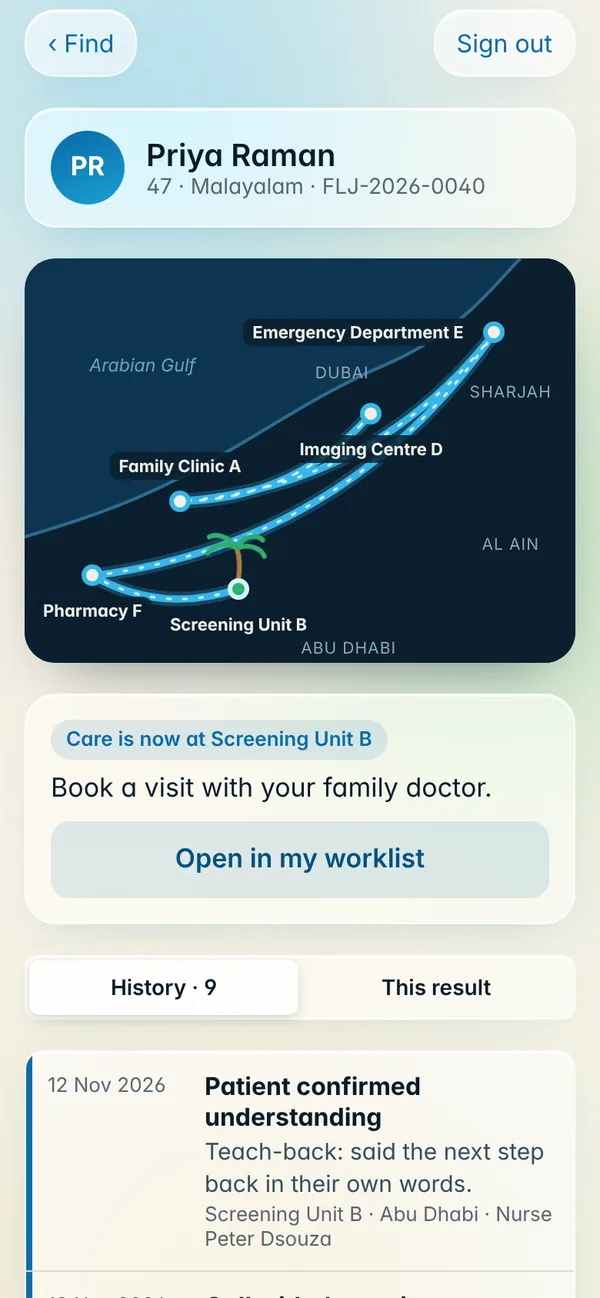
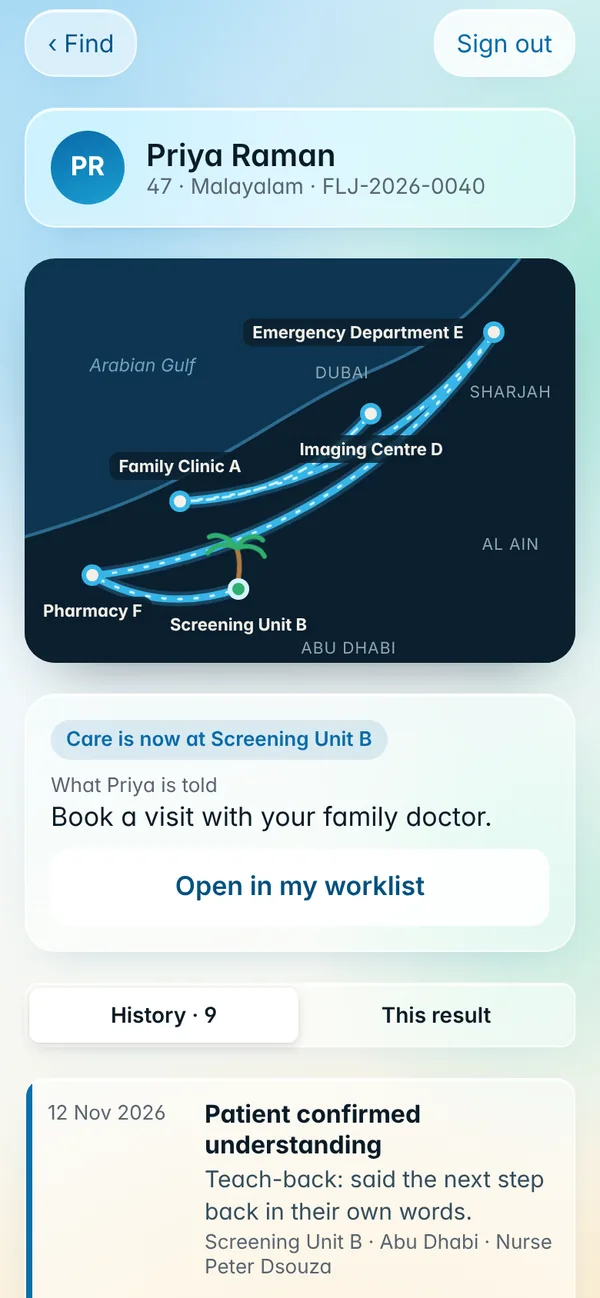
Glass everywhere: one frosted-glass theme over a drifting water backdrop for the app, the patient steps, the care team website, the story, home and jury; dark glass sidebar, stronger glass for sheets, solid colour kept for the main action and status; refreshed app screenshots
Claude-Session: https://claude.ai/code/session_01NvQmsxxT7Hv8ExqcSoyVTJ

diff --git a/design/glass-all.css b/design/glass-all.css
@@ -1,0 +1,71 @@
+/* FALAJ GLASS: one theme for every page. A luminous water backdrop that drifts slowly, and every surface
+   (cards, lists, bars, sheets, sidebars, fields, quiet buttons) made of frosted glass with a bright edge.
+   Solid colour is kept only for the main action and for status, so they stand out against the glass. */
+:root{
+  --glass:rgba(255,255,255,.52);--glass-hi:rgba(255,255,255,.8);--glass-strong:rgba(255,255,255,.86);
+  --glass-edge:rgba(255,255,255,.82);--glass-dark:rgba(8,42,66,.74);
+  --glass-sh:inset 0 1px 0 rgba(255,255,255,.95),inset 0 -1px 0 rgba(255,255,255,.25),0 14px 34px -20px rgba(12,74,118,.42);
+  --glass-blur:blur(26px) saturate(175%);
+}
+@media (prefers-color-scheme:dark){:root{
+  --glass:rgba(38,48,60,.46);--glass-hi:rgba(255,255,255,.13);--glass-strong:rgba(22,30,40,.84);
+  --glass-edge:rgba(255,255,255,.14);--glass-dark:rgba(4,14,22,.7);
+  --glass-sh:inset 0 1px 0 rgba(255,255,255,.14),0 14px 34px -20px rgba(0,0,0,.8);
+}}
+html{background:#e7f3fb}
+@media (prefers-color-scheme:dark){html{background:#040b12}}
+body[data-falaj-surface]{background:transparent !important;position:relative}
+body[data-falaj-surface]::before{content:"";position:fixed;inset:0;z-index:-2;pointer-events:none;
+  background:radial-gradient(62vmax 58vmax at 6% -6%,#9bd5f3 0,rgba(155,213,243,0) 62%),radial-gradient(54vmax 54vmax at 106% 22%,#a8e7db 0,rgba(168,231,219,0) 62%),radial-gradient(64vmax 50vmax at 58% 112%,#f9e2b4 0,rgba(249,226,180,0) 64%),linear-gradient(170deg,#e2f1fb 0%,#f0f8fb 46%,#fbf5e8 100%)}
+body[data-falaj-surface]::after{content:"";position:fixed;inset:-22vmax;z-index:-1;pointer-events:none;
+  background:radial-gradient(36vmax 36vmax at 30% 34%,rgba(112,196,240,.5) 0,rgba(112,196,240,0) 62%),radial-gradient(32vmax 32vmax at 72% 64%,rgba(140,222,200,.42) 0,rgba(140,222,200,0) 62%);
+  animation:gl-drift 26s ease-in-out infinite alternate}
+@keyframes gl-drift{to{transform:translate(9vmax,-7vmax) rotate(9deg)}}
+@media (prefers-color-scheme:dark){
+  body[data-falaj-surface]::before{background:radial-gradient(62vmax 58vmax at 6% -6%,#0d4468 0,rgba(13,68,104,0) 62%),radial-gradient(54vmax 54vmax at 106% 22%,#0c4a44 0,rgba(12,74,68,0) 62%),radial-gradient(64vmax 50vmax at 58% 112%,#3b2f17 0,rgba(59,47,23,0) 64%),linear-gradient(170deg,#04121c,#050b12 50%,#07110d)}
+  body[data-falaj-surface]::after{opacity:.5}
+}
+.bgfx{display:none !important}
+/* containers let the backdrop through */
+body[data-falaj-surface] :is(.stage,.phone,.inner,main,.wrap,.pane,.plist,.pdetail,.desk,.demo){background:transparent !important}
+body[data-falaj-surface] :is(.bar,.top){background:transparent !important;backdrop-filter:none;-webkit-backdrop-filter:none}
+/* every surface is glass */
+body[data-falaj-surface] :is(.card,.list,.ig,.hl,.flowbox,.agline,.summary,.falaj,.bars,.fcard,.vcard,.ringcard,.rule,.more,.appt,.msgcard,.wf-wrap,.hero2,.qa,.ptcard,.status2,.askcard,.hist,.dempty,.hlist,.chipb,.seg,.tbl,.scroll){
+  background:var(--glass) !important;backdrop-filter:var(--glass-blur);-webkit-backdrop-filter:var(--glass-blur);
+  border:1px solid var(--glass-edge) !important;box-shadow:var(--glass-sh) !important}
+body[data-falaj-surface] .card :is(.card,.list,.tbl,.scroll,.bars){background:var(--glass-hi) !important;backdrop-filter:none;-webkit-backdrop-filter:none;box-shadow:none !important}
+body[data-falaj-surface] .tbl :is(th,td,tr,thead){background:transparent !important}
+/* sheets and menus: stronger glass, so words stay easy to read */
+body[data-falaj-surface] .sheet{background:var(--glass-strong) !important;backdrop-filter:blur(34px) saturate(180%);-webkit-backdrop-filter:blur(34px) saturate(180%);border:1px solid var(--glass-edge) !important;box-shadow:var(--glass-sh) !important}
+body[data-falaj-surface] .scrim{background:rgba(8,42,66,.28)}
+/* bars that float */
+body[data-falaj-surface] .tabs{background:var(--glass) !important;backdrop-filter:var(--glass-blur);-webkit-backdrop-filter:var(--glass-blur);border:1px solid var(--glass-edge) !important;box-shadow:var(--glass-sh),0 18px 40px -18px rgba(10,50,80,.45) !important}
+body[data-falaj-surface] .side{background:var(--glass-dark) !important;backdrop-filter:blur(30px) saturate(170%);-webkit-backdrop-filter:blur(30px) saturate(170%);border-inline-end:1px solid rgba(255,255,255,.18)}
+body[data-falaj-surface] .site-nav{background:var(--glass);backdrop-filter:var(--glass-blur);-webkit-backdrop-filter:var(--glass-blur);border:1px solid var(--glass-edge);box-shadow:var(--glass-sh);border-radius:999px;padding:4px 16px}
+/* quiet buttons and fields are glass; the main action stays solid */
+body[data-falaj-surface] :is(.wide.ghost,.btn.ghost,.light,.btn-tint,.linkbtn,.chips button,.langs button,.textlink.glass){background:var(--glass-hi) !important;backdrop-filter:blur(14px);-webkit-backdrop-filter:blur(14px);border:1px solid var(--glass-edge) !important;box-shadow:inset 0 1px 0 rgba(255,255,255,.9)}
+body[data-falaj-surface] :is(.field input,.field textarea,.field select,.composer input){background:var(--glass-hi) !important;border:1px solid var(--glass-edge) !important}
+body[data-falaj-surface] .demo{border-bottom:1px solid var(--glass-edge)}
+/* the app pages take the same glass */
+body:is([data-falaj-page=app],[data-falaj-page=me]){--glass:rgba(255,255,255,.52);--glass-hi:rgba(255,255,255,.8);--g-bg:transparent}
+@media (prefers-color-scheme:dark){body:is([data-falaj-page=app],[data-falaj-page=me]){--glass:rgba(38,48,60,.46);--glass-hi:rgba(255,255,255,.13)}}
+body:is([data-falaj-page=app],[data-falaj-page=me]) .sheet{background:var(--glass-strong) !important}
+/* website details that assumed a flat page colour */
+body[data-falaj-surface=website]{--bg:transparent}
+.chan .n{box-shadow:0 0 0 5px rgba(255,255,255,.55)}
+.shafts i{background:rgba(255,255,255,.85)}
+.fh-mouth{fill:#fff}
+.fh-ground{fill:rgba(255,255,255,.42);stroke:rgba(255,255,255,.8);stroke-width:1}
+@media (prefers-color-scheme:dark){.fh-ground{fill:rgba(255,255,255,.07)}.fh-mouth{fill:#0a1a26}.chan .n{box-shadow:0 0 0 5px rgba(255,255,255,.08)}.shafts i{background:#0a1a26}}
+@media (prefers-reduced-motion:reduce){body[data-falaj-surface]::after{animation:none}}
+/* details */
+body[data-falaj-surface] .dempty{border-radius:28px;padding:36px 28px;margin:auto}
+body[data-falaj-surface] .side :is(small,.sdemo){color:#dbe7ef !important}
+.stp .tag.soft{color:var(--ink) !important}
+@media (prefers-color-scheme:light){body[data-falaj-surface]{--fill:var(--water-700)}}
+body[data-falaj-surface] :is(.card,.hl,.agline,.summary,.falaj,.flowbox,.ringcard,.rule,.more,.appt,.msgcard,.fcard,.vcard){border-radius:20px}
+.wf-key{color:var(--ink-2,#2c3e4c) !important}
+body[data-falaj-surface] .back{color:var(--water-700) !important}
+@media (prefers-color-scheme:dark){body[data-falaj-surface] .tabs{background:var(--glass-strong) !important}}
+@media (max-width:720px){body[data-falaj-surface] .site-nav{flex-wrap:nowrap;overflow-x:auto;gap:2px 14px;padding:2px 14px;scrollbar-width:none;max-width:100%}
+  body[data-falaj-surface] .site-nav a{white-space:nowrap;flex:none}}

diff --git a/sw.js b/sw.js
@@ -1,9 +1,9 @@
 // Falaj service worker: lets the app open offline and be installed.
 // Strategy: network first (so new versions show immediately), fall back to the saved copy when offline.
 // Bump VERSION on every release so old saved copies are cleared.
-const VERSION = 'jissr-v74';
+const VERSION = 'jissr-v75';
 const SHELL = [
-  '/design/tokens.css', '/design/system.css', '/', '/index.html', '/loop.html', '/team.html', '/me.html', '/jury.html', '/ios.css', '/verify.html', '/family.html', '/app.html', '/styles.css', '/theme.css', '/design/site.css', '/app-shell.css', '/media/app-today.webp', '/media/app-map.webp', '/manifest.webmanifest', '/core/rules.mjs', '/core/cases.mjs', '/core/data.mjs', '/core/store.mjs', '/core/templates.mjs', '/core/ui.mjs', '/core/fhir.mjs', '/core/programmes.mjs', '/core/pwa.mjs', '/core/art.mjs', '/core/qr.mjs', '/core/proof.mjs', '/core/family.mjs', '/core/passport.mjs', '/core/flow.mjs', '/core/agents.mjs', '/core/channel.mjs', '/core/workflow.mjs', '/core/history.mjs', '/core/assistant.mjs', '/core/steps.mjs', '/design/glass.css', '/icons/icon.svg', '/icons/icon-192.png', '/icons/icon-512.png', '/fonts/readex-pro-latin-400-normal.woff2', '/fonts/readex-pro-latin-500-normal.woff2', '/fonts/readex-pro-latin-600-normal.woff2', '/fonts/readex-pro-arabic-400-normal.woff2', '/fonts/readex-pro-arabic-500-normal.woff2', '/fonts/readex-pro-arabic-600-normal.woff2', '/fonts/inter-latin-400-normal.woff2', '/fonts/inter-latin-500-normal.woff2', '/fonts/inter-latin-600-normal.woff2', '/fonts/bricolage-grotesque-latin-600-normal.woff2', '/fonts/bricolage-grotesque-latin-700-normal.woff2', '/fonts/ibm-plex-sans-arabic-arabic-400-normal.woff2', '/fonts/ibm-plex-sans-arabic-arabic-500-normal.woff2', '/fonts/ibm-plex-sans-arabic-arabic-600-normal.woff2', '/fonts/ibm-plex-sans-arabic-arabic-700-normal.woff2',
+  '/design/tokens.css', '/design/system.css', '/', '/index.html', '/loop.html', '/team.html', '/me.html', '/jury.html', '/ios.css', '/verify.html', '/family.html', '/app.html', '/styles.css', '/theme.css', '/design/site.css', '/app-shell.css', '/media/app-today.webp', '/media/app-map.webp', '/manifest.webmanifest', '/core/rules.mjs', '/core/cases.mjs', '/core/data.mjs', '/core/store.mjs', '/core/templates.mjs', '/core/ui.mjs', '/core/fhir.mjs', '/core/programmes.mjs', '/core/pwa.mjs', '/core/art.mjs', '/core/qr.mjs', '/core/proof.mjs', '/core/family.mjs', '/core/passport.mjs', '/core/flow.mjs', '/core/agents.mjs', '/core/channel.mjs', '/core/workflow.mjs', '/core/history.mjs', '/core/assistant.mjs', '/core/steps.mjs', '/design/glass.css', '/design/glass-all.css', '/icons/icon.svg', '/icons/icon-192.png', '/icons/icon-512.png', '/fonts/readex-pro-latin-400-normal.woff2', '/fonts/readex-pro-latin-500-normal.woff2', '/fonts/readex-pro-latin-600-normal.woff2', '/fonts/readex-pro-arabic-400-normal.woff2', '/fonts/readex-pro-arabic-500-normal.woff2', '/fonts/readex-pro-arabic-600-normal.woff2', '/fonts/inter-latin-400-normal.woff2', '/fonts/inter-latin-500-normal.woff2', '/fonts/inter-latin-600-normal.woff2', '/fonts/bricolage-grotesque-latin-600-normal.woff2', '/fonts/bricolage-grotesque-latin-700-normal.woff2', '/fonts/ibm-plex-sans-arabic-arabic-400-normal.woff2', '/fonts/ibm-plex-sans-arabic-arabic-500-normal.woff2', '/fonts/ibm-plex-sans-arabic-arabic-600-normal.woff2', '/fonts/ibm-plex-sans-arabic-arabic-700-normal.woff2',
 ];
 
 self.addEventListener('install', (e) => {

diff --git a/app.html b/app.html
@@ -132,6 +132,7 @@
 </style>
 <link rel="stylesheet" href="design/system.css">
 <link rel="stylesheet" href="design/glass.css">
+<link rel="stylesheet" href="design/glass-all.css">
 </head>
 <body class="webp" data-falaj-surface="patient" data-falaj-page="app">
 <div class="bgfx" aria-hidden="true"><i></i><i></i><i></i></div>
@@ -654,7 +655,7 @@ function mapScreen(s, c) {
   paint(`<div class="nav"><a class="back" href="#find">‹ Find</a>${signOutBtn}</div>
     <div class="ptcard"><span class="av" aria-hidden="true">${esc(initials(c.patient.name))}</span><span><b>${esc(c.patient.name)}</b><small>${c.patient.age} · ${esc(LANG[c.patient.language] || c.patient.language)} · ${esc(healthId(c))}</small></span></div>
     ${careMapHtml(hist, { selected: mapSel })}
-    <section class="status2" aria-labelledby="cn"><span class="pill" id="cn">Care is now at ${esc(FACILITIES[last].name)}</span><p>${esc(nextStep(contextOf(c)))}</p><a class="btn-tint" href="team.html?as=${s.id}&c=${c.id}">Open in my worklist</a></section>
+    <section class="status2" aria-labelledby="cn"><span class="pill" id="cn">Care is now at ${esc(FACILITIES[last].name)}</span><p><small style="display:block;font-size:13px;color:var(--g-2)">What ${esc(first(c))} is told</small>${esc(nextStep(contextOf(c)))}</p><a class="btn-tint" href="team.html?as=${s.id}&c=${c.id}">Open in my worklist</a></section>
     <div class="seg" role="group" aria-label="Show"><button data-v="history" aria-pressed="${mapView === 'history'}">History · ${hist.length}</button><button data-v="falaj" aria-pressed="${mapView === 'falaj'}">This result</button></div>
     ${mapView === 'falaj' ? wf : `${mapSel ? `<button class="linkbtn" id="allr" style="align-self:flex-start;padding:0">${esc(FACILITIES[mapSel].name)} only · show all</button>` : ''}<div id="hh">${historyHtml(hist, { only: mapSel })}</div>`}
     <p class="foot2">Invented records and places. ${esc(first(c))} sees that you opened this file. Your access ends ${esc(fmtDay((activeGrant(c, s.id) || {}).until || new Date().toISOString()))} at ${esc(time((activeGrant(c, s.id) || {}).until || new Date().toISOString()))}.</p>`);

diff --git a/family.html b/family.html
@@ -43,6 +43,7 @@
 </style>
 <link rel="stylesheet" href="theme.css">
 <link rel="stylesheet" href="design/system.css">
+<link rel="stylesheet" href="design/glass-all.css">
 </head>
 <body data-falaj-surface="patient" data-falaj-page="family">
 <div class="demo" style="justify-content:space-between;padding:8px 16px;font-size:13px"><span>Demo with synthetic data. Not medical advice.</span><a href="index.html">About the project</a></div>

diff --git a/index.html b/index.html
@@ -13,6 +13,7 @@
 <link rel="stylesheet" href="theme.css">
 <link rel="stylesheet" href="design/system.css">
 <link rel="stylesheet" href="design/site.css">
+<link rel="stylesheet" href="design/glass-all.css">
 </head>
 <body data-falaj-surface="website" data-falaj-page="index">
 <div class="demo"><span>Prototype with synthetic data. Not medical advice.</span><span>Future Health Challenge 2026, challenge 05</span></div>

diff --git a/jury.html b/jury.html
@@ -13,6 +13,7 @@
 <link rel="stylesheet" href="theme.css">
 <link rel="stylesheet" href="design/system.css">
 <link rel="stylesheet" href="design/site.css">
+<link rel="stylesheet" href="design/glass-all.css">
 </head>
 <body data-falaj-surface="website" data-falaj-page="jury">
 <div class="demo"><span>Prototype with synthetic data. Not medical advice.</span><span>Future Health Challenge 2026, challenge 05</span></div>

diff --git a/loop.html b/loop.html
@@ -163,6 +163,7 @@ button:focus-visible,a:focus-visible,summary:focus-visible,.inner:focus-visible{
 .sr{position:absolute;width:1px;height:1px;overflow:hidden;clip:rect(0 0 0 0);white-space:nowrap}
 </style>
 <link rel="stylesheet" href="design/system.css">
+<link rel="stylesheet" href="design/glass-all.css">
 </head>
 <body data-falaj-surface="story" data-falaj-page="loop">
 <div class="stage">

diff --git a/verify.html b/verify.html
@@ -26,6 +26,7 @@
 </style>
 <link rel="stylesheet" href="theme.css">
 <link rel="stylesheet" href="design/system.css">
+<link rel="stylesheet" href="design/glass-all.css">
 </head>
 <body data-falaj-surface="passport" data-falaj-page="verify">
 <div class="demo"><span>Prototype · synthetic data · the check runs on the demo data in this browser</span><a href="index.html">Home</a></div>

diff --git a/me.html b/me.html
@@ -48,6 +48,7 @@
 @media (prefers-reduced-motion:reduce){</style>
 <link rel="stylesheet" href="design/system.css">
 <link rel="stylesheet" href="design/glass.css">
+<link rel="stylesheet" href="design/glass-all.css">
 </head>
 <body class="webp" data-falaj-surface="patient" data-falaj-page="me">
 <div class="bgfx" aria-hidden="true"><i></i><i></i><i></i></div>

diff --git a/team.html b/team.html
@@ -11,6 +11,7 @@
 <link rel="apple-touch-icon" href="/icons/apple-touch-icon.png">
 <link rel="stylesheet" href="ios.css">
 <link rel="stylesheet" href="design/system.css">
+<link rel="stylesheet" href="design/glass-all.css">
 </head>
 <body data-falaj-surface="patient" data-falaj-page="team">
 <div class="stage">

diff --git a/DESIGN.md b/DESIGN.md
@@ -90,3 +90,7 @@ Generic health apps are blue, white and glass. Falaj owns four things no other p
 | **The oasis palette** | Everywhere | Warm sand canvas, water blue for action, palm green for done, date amber only on the palm and for "waiting". No lavender, no grey canvas. |
 
 Type: Bricolage Grotesque (bundled) for titles on the website and for the app's large titles; the system font for everything a person reads or taps. Product screenshots on the website are real captures (`media/app-*.webp`), never drawn mock-ups.
+
+## Glass, everywhere (`design/glass-all.css`)
+
+One theme for every page: a luminous water backdrop (water blue, aqua, a warm sand glow) that drifts slowly, and every surface made of frosted glass with a bright edge: cards, lists, bars, sheets, the care team sidebar (dark glass), fields and quiet buttons. Solid colour is kept for the main action and for status only, so they stand out. Sheets use the stronger glass (`--glass-strong`) so words stay easy to read. Dark mode uses dark glass over a deep-water backdrop. The drift stops under "Reduce motion".
